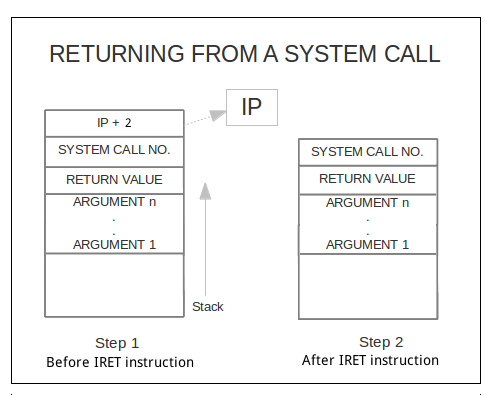
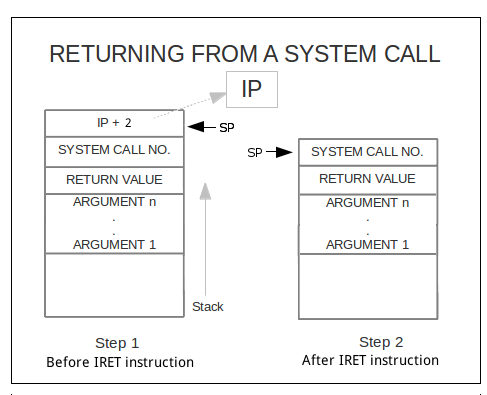
finished open in stage 8 roadmap

Changed region(s): [[0.3696, 0.1823, 0.5544, 0.3342], [0.4928, 0.3646, 0.616, 0.3949]]

diff --git a/roadmap.html b/roadmap.html
@@ -941,7 +941,8 @@ INT <i>number</i> 		// Invoke the corresponding INT instruction</div></pre>
 				
 				<h6> Modifying Interrupt 1 Routine</h6>
 				<p>
-				The previous implementation of Interrupt 1 Routine to print <tt>SW Interrupt</tt> is to be discarded. Interrupt 1 is used by two system calls Create and Delete. The system call number is to be obtained from the stack as explained earlier. Since interrupt routines execute in kernel mode, you will need to calculate the physical address of SP using the formula described in Stage 6. After getting the system call number in a register which is aliased as <tt>sysCallNo</tt>, use and <tt>if</tt> condition to check whether the system call corresponds to Create or Delete.</p>			
+				The previous implementation of Interrupt 1 Routine to print <tt>SW Interrupt</tt> is to be discarded. Interrupt 1 is used by two system calls Create and Delete. The system call number is to be obtained from the stack. The system call number is at the 2nd position from the stack, i.e. SP - 1. This is explained in the figures given above. Since interrupt routines execute in kernel mode, you will need to calculate the physical address of SP using the formula described in Stage 6. Get the system call number in a register which is aliased as <tt>sysCallNo</tt>. Fetch the arguments from 3rd position onwards in the stack, i.e. SP - 2 onwards. Put the arguments in registers. </p>		
+				 <p> Based on the <tt>sysCallNo</tt> perform the required actions.</p>	
 				 A skeleton of the new Interrupt 1 Routine is given below. 
 				</p>
 				
@@ -951,7 +952,8 @@ INT <i>number</i> 		// Invoke the corresponding INT instruction</div></pre>
 alias physicalSP R8;
 physicalSP = ([PTBR + 2 * (SP / 512)] * 512) + (SP % 512);
 .
-// Get system call no. from the stack
+// Get system call no. from the stack and put it in registers
+// Get arguments from stack and put it in registers
 .
 if ( sysCallNo == 1) then
 	// Implementation of Create 
@@ -984,11 +986,11 @@ endif;	</pre>
 				</li></p>
 				<li> <p> If no free block is found, return from the system call with return value -1, indicating failure. To do this, put -1 at the 2nd position from the top of stack as shown in Figure 2, and use <b>ireturn;</b> instruction. This will pass the control back to the user program. The user program can fetch the return value from the appropriate position in the stack. </li></p>
 				
-				<li>If a free block is found, it is used as the <a href="xfs-spec.html#navfile">basic block</a> of the file to be created. A basic block of the file stores the block numbers of the data blocks of the file. The data blocks will have the contents of the file. The entry in the Disk Free List for this block is set to 1, indicating that it has now been allocated. </li></p>
+				<li>If a free block is found, it is used as the <a href="xfs-spec.html#navfile">basic block</a> of the file to be created. A basic block of the file stores the block numbers of the data blocks of the file. The data blocks will have the contents of the file. </li></p>
 				
 			
 
-				<li> <p>Create system call has only 1 argument, <tt>filename</tt>. It is stored in the 3rd position from the top of the stack as shown in FIGURE 1.  Fetch it and store it to a register. </li></p>
+				<li> <p>Create system call has only 1 argument, <tt>filename</tt>. You have already fetched the arguments and placed them in registers. </li></p>
 				
 				<li> <p>The memory copy of the <a href="xos-spec.html#navfiles_fat">FAT</a> is to be searched with this <tt>filename</tt> to check a file with the same name already exists. If it exists return from the system call with 0, indicating success. For convenience you may use the <a href="spl-spec.html#navconst">predefined constant</a> <tt>FAT</tt> in SPL which stores the address of memory copy of FAT.
 				</li></p>
@@ -1003,7 +1005,7 @@ endif;	</pre>
 				</li></p>
 				<li> <p>All the words in the basic block loaded to the scratchpad must be set to 0. This indicates that there are no data blocks currently for this file. After this is done, the basic block residing in the scratchpad needs to be stored back to the disk. Store the memory page 1 (corresponds to the scratchpad) to disk block number corresponding to the basic block of the newly created files. Use the <tt>store</tt> statement in SPL to do this. (See <a href="spl-spec.html#navstatements">statements</a> in SPL). </li></p>
 
-				<li> <p>The updated copies of <a href="xos-spec.html#navfiles_fat">FAT</a> and <a href="xos-spec.html#navfiles_dfl">Disk Free List</a> in the memory are then stored back to the disk.</li></p>
+				<li> <p> The entry in the Disk Free List for the basic block is set to 1, indicating that it has now been allocated.The updated copies of <a href="xos-spec.html#navfiles_fat">FAT</a> and <a href="xos-spec.html#navfiles_dfl">Disk Free List</a> in the memory are then stored back to the disk.</li></p>
 				
 				<li><p> Return from the system call with return value 0, indicating success. An <b>ireturn</b> instruction is used to transfer control back to user program which invoked the system call. </li></p>
 	
@@ -1057,7 +1059,32 @@ Machine is halting     </pre>
 			<h2>Stage 8: Playing with files</h2>
 			<p>You have already created files using the <b>Create</b> system call. In this stage, you will implement the <b>Open</b>, <b>Close</b>, <b>Delete</b>, <b>Write</b>, <b>Seek</b> and <b>Read</b> system calls. </p>
 				
-			<p>The various file system calls and their corresponding interrupt routines are given in the table below.</p>
+
+
+			<p>XOS uses two data structures to maintain information about opened files. They are <a href="xos-spec.html#navfiles_swoft">System-Wide Open File Table</a> and <a href="xos-spec.html#navpromgmt_pcb">Per-Process Open-File Table</a>. There is one system-wide open file table for XOS which stores the FAT index corresponding to each opened file and the number of times that file has been opened. There is a per-process open file table for every process in its PCB. The per-process open file table stores the system-wide open file table index corresponding to an open instance of a file, and the LSEEK position of this open instance, which indicates the word in the file to which the process currently points to for read/write operations. A single file may be opened more than once by the same or different processes. Each open instance has an entry in the corresponding per-process file table. But there will only be one entry corresponding to an opened file in the System Wide open file table. <b>File Open Count</b> field of the System Wide Open File Table entry stores the number of open instances of a file. </p>
+
+			<h6>Modifying OS Startup Code</h6>
+			<ol>
+			<li> <p>All entries of the <a href="xos-spec.html#navfiles_swoft">System-Wide Open File Table</a> must be set to invalid initially. This is because no files are open when the OS starts. An invalid entry is indicated by -1 in the <b>FAT Index</b> field of all entries. The <b>File Open Count</b> field of all entries must be set to 0.</b>. For convenience, you may use the predefined constant <tt>FILE_TABLE</tt> in SPL which stores the address of the System Wide Open File Table. </li></p>
+			
+			
+				<div class="syntax">
+				<pre>
+alias counter R8;			
+counter = 0;
+while ( counter <  128) do			// 64 entries, each of size 2 words
+	[ FILE_TABLE + counter + 0] = -1;	// Set FAT Index to -1
+	[ FILE_TABLE + counter + 1] =  0;	// Set File Open Count to 0
+	counter = counter + 2;			// Move to next entry
+endwhile;					</pre>
+				</div>
+				<li> <p>The only process OS Startup Code loads to memory is the INIT process. Hence all the entries of the Per-Process Open File Table of the INIT process must be best to invalid. This is because no files are opened by the INIT process. An invalid Per-Process File Table entry is indicated by -1 in both the fields (Pointer to System-Wide Open File Table entry and LSEEK position).  </li>	</p>
+				
+				<li> <p>File System Calls are implemented using interrupt routines 1 to 4. You have already written code to load interrupt routine 1 from the disk to memory. Similarly add instructions to load Interrupt Routines 2, 3 and 4 from disk to memory. (See <a href="xos-spec.html#navmemorg" >Memory Organization</a> and <a href="xfs-spec.htmL#navdiskorg">Disk Organization</a>). </li>		</p>
+			</ol>
+
+			<h6>Programming Interrupt Routines</h6>
+			<p>As done for Create system call, every system call is associated with an interrupt routine and a system call number.The various file system calls and their corresponding interrupt routines are given in the table below.</p>
 				<table class="doctable" style="width:50%">
 					<tr><th>System Call Name</th><th>System Call #</th><th>Interrupt Routine #</th></tr>
 					<tr><td>Create</td>			 <td>1</td>				<td> 1</td> </tr>
@@ -1068,73 +1095,52 @@ Machine is halting     </pre>
 					<tr><td>Seek</td>			<td>6</td>				<td> 3</td> </tr>
 					<tr><td>Read</td>			<td>7</td>				<td> 3</td> </tr>
 				</table>
-			
 			<br/>
-			<h5> Open System Call</h5>
-			<p> The Open system call is to open a file in the XFS disk. For the Open system call to work, the file must already be present in the disk. XOS uses two data structures to maintain information about opened files. They are <a href="xos-spec.html#navfiles_swoft">System-Wide Open File Table</a>. </p>
-<li>
-				Set the FAT Entry and File Open Count of 64 entries of the  <a href="xos-spec.html#navfiles_swoft">System-Wide Open File Table</a>  to -1. 
-
-			</li>
-				<div class="syntax">
-				<pre>
-alias counter R8;	// R8 - R15 is used by system programmers.
-counter = 0;
-while ( counter <=  128) do
-	[ FILE_TABLE + counter] = -1;
-	counter = counter + 1;
-endwhile;						</pre>
-				</div>
-				<li> Set all words in the <a href="xos-spec.html#navpromgmt_pcb">Per-Process Open-File Table in the PCB</a> of INIT to -1  (ERROR !!! Why) </li>			
+			<p>The system call number must be fetched from the stack and conditionally the corresponding system call actions need to be performed. Actions that needs to be taken for each system call is discussed in detail in this stage. After programming the interrupt routine, it must be compiled using SPL compiler, and loaded to XFS disk using XFS interface. </p>
+			<p>To check if the system call is functioning properly, make application programs which invoke the system call. Compile it using APL compiler and load it to disk as the INIT program. Run the machine by <b>disabling the timer</b>. You may use the XFS interface to check the working of file sytem calls.</p>
 			
+			<p> Detailed information and actions corresponding to each system call is given below.</p>
+			<h5> Open System Call</h5>
+			<i>Description:</i> The Open system call is used to open a file present in the XFS disk. <br/>
 			<i>System Call No</i>: 2 <br/>
 			<i>Interrupt Routine No</i>: 2 <br/>
-			<i>Arguments</i>: filename <br/>
-			<i>Return Value</i>: 0 (Success) or -1 (Failure) </br>
-			<br/>
-			Opens a file with the filename given as argument.
-
+			<i>Arguments</i>: filename of the file to be opened <br/>
+			<i>Return Value</i>: Index of open instance in per-process file table (Success) or -1 (Failure) <br/> 
 			<ol>
-				<li> Memory copy of FAT is searched for the <tt>filename</tt> (get the <tt>filename</tt> from stack as explained in the Create system call) . If the entry is not found, -1 is returned. Otherwise, store the index of the FAT entry in a register.</li>
+				<li><p>First, you need to check if a file with the given <b>filename</b> exists in the disk. To do this, memory copy of FAT is searched for the <tt>filename</tt> given as argument to the system call. Steps to obtain the argument from the stack is explained in detail in Stage 7. If the entry is not found, -1 is returned, indicating failure. Otherwise, store the index of the FAT entry in a register.</li></p>
 
-				<li>Then, the <a href="xos-spec.html#navfiles_swoft">System-Wide Open File Table</a> is searched for the FAT Index  found in the previous step. If an entry is found, increment the <a href="xos-spec.html#navfiles_swoft"><tt>File Open Count</tt></a>.</li>
-
-				<li> If an entry is not found with the FAT Index, then search for a free entry in the System-Wide Open File Table. If there are no free entries (indicated by -1 <tt>FAT Index</tt> field), return from the system call with return value -1. Otherwise, store <tt>FAT Index</tt> and set the <tt>File Open Count</tt> field as 1 in free entry found.	</li>
-
-				<li> Store the index of the entry (in System-Wide Open File Table) in a register.</li>
-
-				<li> Every process will have a <a href="xos-spec.html#navpromgmt_pcb">Per-Process File Table</a> in its PCB. This stores the details of files opened by this process. Find the PCB's location using the value of PTBR (It may be directly obtained if there is only one process, however following a general approach to get PCBs will be useful when more than one process starts running). Recall that using the value of PTBR we can find the ProcessID using the formula.
-					
-					<div class="syntax"><tt>  ProcessID = (PTBR - 1024) / 8; </tt></div>
-
-				Page Tables start at word address 1024. And size of each <a href="xos-spec.html#navpromgpmt_pagetbl">per-process page table</a> is 8 words. <b>NOTE: This calculation is specific to our operating system. In general Process ID is not obtained from the value of PTBR.</b> 
-				<br/><br/>
-					We can find the PCB of the current process using the <tt>ProcessID</tt> as done in earlier stages.
-
-					<div class="syntax"><tt> PCB_Start = READY_LIST + 32 * ProcessID; </tt></div>
-					
-					
-				</li>
-
-				<li>  A free entry is searched in the <a href="xos-spec.html#navpromgmt_pcb">per-process open file table in the PCB</a> of the process. A free entry is indicated by -1 in the first field (Pointer to <a href="xos-spec.html#navfiles_swoft">System-Wide Open File Table</a>). If there are no free entries, -1 is returned by the system call. </li>
-
-				<li> Otherwise, set the <tt>Pointer to System-Wide File Table Entry</tt> field to the index stored in Step 4 and set <tt>LSEEK Position</tt> to 0.  </li>
+				<li><p> If the file is not already opened, an entry in the system-wide open file table needs to be created. Otherwise, there will be an entry corresponding to this file in the System wide Open file table, which needs to be updated. To do this, search the <a href="xos-spec.html#navfiles_swoft">System-Wide Open File Table</a> for the FAT Index found in the previous step. </p>
+					<ul>
+					<li>If an entry with the FAT index is found, store the index of the matched entry in a register.  </li>
+					<li>Otherwise, search for a free entry in the System-Wide Open File Table. A free entry is indicated by -1 in the <b>FAT Index</b> field in the System-wide Open File Table. If there are no free entries. return from the system call with return value -1. If a free entry is found, store the index of the entry in a register. 
+					</li>
+				
+					</ul>
+			 </li></p>
+				
 			
-				<li> The index of this entry in the local file table is returned as a return value of the system call. This is known as the file descriptor.</li>
+
+				<li> <p>Every process will have a <a href="xos-spec.html#navpromgmt_pcb">Per-Process File Table</a> in its PCB. This stores the details of open instances of files by that process. Note that a single file may be opened more than once by the same process. Find the location of the PCB of the current process by obtaining the Process ID using the method described in Stage 6. A free entry is searched in the <a href="xos-spec.html#navpromgmt_pcb">per-process open file table in the PCB</a> of the process. A free entry is indicated by -1 in the first field (Pointer to <a href="xos-spec.html#navfiles_swoft">System-Wide Open File Table</a>). If there are no free entries -1 is returned by the system call. Otherwise, store the index of the Per-process file table entry in a register. Set the first field (<b>Pointer to System-Wide File Table Entry</b>) of this entry to the index of the System-wide open file table entry stored in Step 2 and set <b>LSEEK Position</b> field to 0.  				
+				</li></p>
+
+		
+
+				<li> <p> Set the <b>FAT Index</b> field of the System Wide file table entry found in Step 2 with the FAT Index found in Step 1. This field in the system wide open file table points to the FAT entry for the file.  Increment the <b>File Open Count</b> field in the system-wide open file table by 1. XOS keeps track of number of times a file has been opened in the <b>File Open Count</b> field for each open file in the System-wide open file table.  </li></p>
+			
+				<li> The index of the entry in the per-process open file table created in step 3 is returned as a return value of the system call. This is known as the file descriptor. </li>
 			</ol>
 
 
-			<h6> Close </h6>
+			<h5> Close System Call </h5>
+			<i>Description</i>: Closes a file opened by the process.<br/>
 			<i>System Call No</i>: 3 <br/>
 			<i>Interrupt Routine No</i>: 2 <br/>
 			<i>Arguments</i>: fileDescriptor <br/>
 			<i>Return Value</i>: 0 (Success) or -1 (Failure) </br>
-			<br/>
-			Closes a file opened by the process.
 
 			<ol> 
-				<li> Get the address of PCB of the process as in the Open System Call implementation.</li>
-				<li> Index into the per-process open file table using the argument <tt>fileDescriptor</tt>. Return from the system call with -1 (failure) if the <tt>fileDescriptor</tt> is invalid or its corresponding entry is invalid.</li>
+				
+				<li> Index into the per-process open file table in the PCB of the process using the argument <b>fileDescriptor</b>. Return from the system call with -1 (failure) if the <tt>fileDescriptor</tt> is invalid or its corresponding entry is invalid.</li>
 				<li> Using the <tt>Pointer to System Wide Open File Table Entry</tt> field, index to the System Wide Open File Table </tt> and decrement <tt>File Open Count</tt> by one. If it becomes 0, invalidate the entry by setting both the fields to -1. </li>
 				<li> Now invalidate the Per-Process Open File Table entry, by setting the fields to -1</li>
 				<li> Return from system call with 0 (success).
